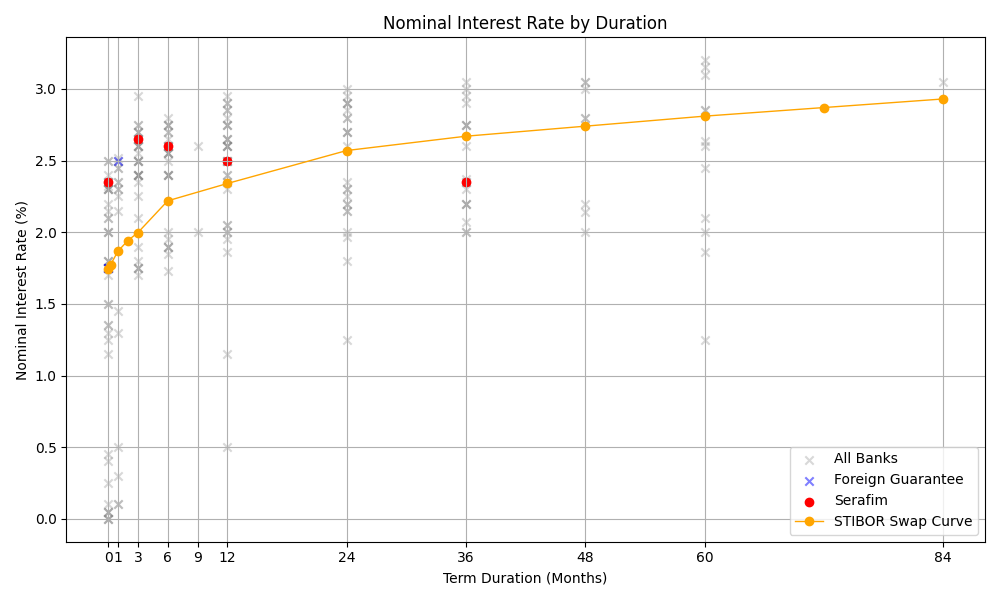
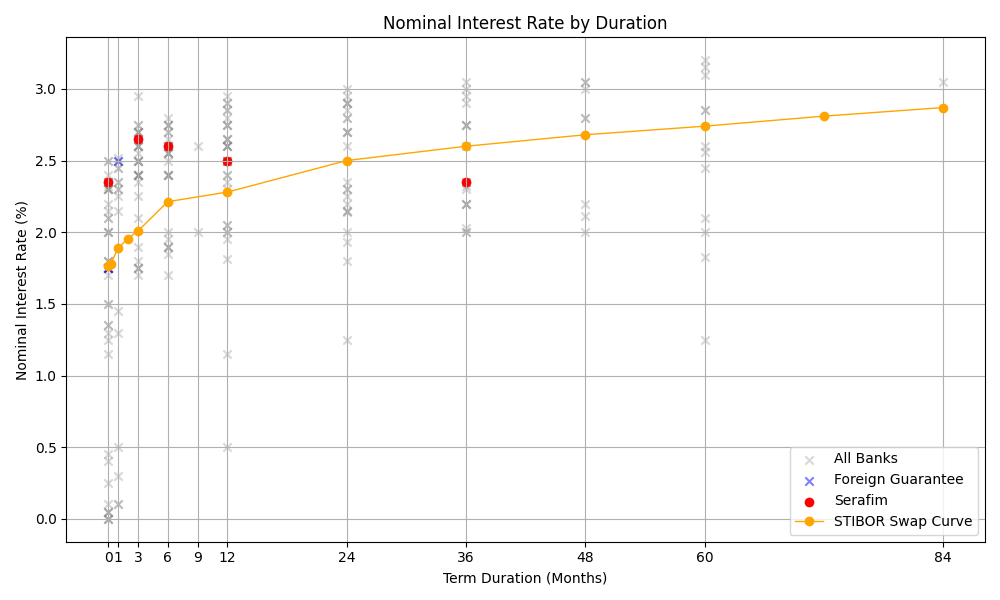
upd

diff --git a/Serafim/index.html b/Serafim/index.html
@@ -81,7 +81,7 @@
 
     <h1>Competitor Overview - Serafim</h1>
     <div style="text-align: right; color: #555; font-size: 0.9em;">
-        Updated: 2026-05-21
+        Updated: 2026-05-22
     </div>
     
     <!-- Tab buttons -->
@@ -337,7 +337,7 @@
       <th>Bankaktiebolaget Nordiska</th>
       <td>2.10</td>
       <td>-</td>
-      <td>2.65</td>
+      <td>2.70 (+0.05)</td>
       <td>2.60</td>
       <td>2.60</td>
       <td>2.60</td>
@@ -394,10 +394,10 @@
       <td>1.80</td>
       <td>-</td>
       <td>2.40</td>
-      <td>2.55 (-0.10)</td>
+      <td>2.55</td>
       <td>-</td>
       <td>2.75</td>
-      <td>2.90 (-0.10)</td>
+      <td>2.90</td>
       <td>-</td>
       <td>-</td>
       <td>-</td>
@@ -660,13 +660,13 @@
       <td>0.05</td>
       <td>2.15</td>
       <td>1.75</td>
-      <td>1.73</td>
+      <td>1.70 (-0.03)</td>
       <td>-</td>
-      <td>1.86 (+0.01)</td>
-      <td>2.20 (+0.01)</td>
-      <td>2.37 (+0.01)</td>
+      <td>1.81 (-0.05)</td>
+      <td>2.14 (-0.06)</td>
+      <td>2.32 (-0.05)</td>
       <td>-</td>
-      <td>2.64 (+0.04)</td>
+      <td>2.56 (-0.08)</td>
       <td>-</td>
     </tr>
     <tr>
@@ -688,7 +688,7 @@
       <td>0.00</td>
       <td>0.50</td>
       <td>1.75</td>
-      <td>1.85 (+0.85)</td>
+      <td>1.85</td>
       <td>-</td>
       <td>1.95</td>
       <td>2.15</td>
@@ -719,10 +719,10 @@
       <td>1.90</td>
       <td>-</td>
       <td>2.05</td>
-      <td>1.97 (+0.02)</td>
-      <td>2.07 (+0.03)</td>
-      <td>2.14 (+0.03)</td>
-      <td>1.86 (+0.01)</td>
+      <td>1.93 (-0.04)</td>
+      <td>2.03 (-0.04)</td>
+      <td>2.11 (-0.03)</td>
+      <td>1.83 (-0.03)</td>
       <td>-</td>
     </tr>
     <tr>
@@ -794,17 +794,17 @@
   </thead>
   <tbody>
     <tr>
-      <th>Northmill Bank</th>
-      <td>1.80</td>
+      <th>Bankaktiebolaget Nordiska</th>
+      <td>2.10</td>
       <td>-</td>
-      <td>2.40</td>
-      <td>2.55 (-0.10)</td>
-      <td>-</td>
+      <td>2.70 (+0.05)</td>
+      <td>2.60</td>
+      <td>2.60</td>
+      <td>2.60</td>
+      <td>2.70</td>
       <td>2.75</td>
-      <td>2.90 (-0.10)</td>
-      <td>-</td>
-      <td>-</td>
-      <td>-</td>
+      <td>2.80</td>
+      <td>2.85</td>
       <td>-</td>
     </tr>
     <tr>
@@ -812,27 +812,13 @@
       <td>0.05</td>
       <td>2.15</td>
       <td>1.75</td>
-      <td>1.73</td>
+      <td>1.70 (-0.03)</td>
       <td>-</td>
-      <td>1.86 (+0.01)</td>
-      <td>2.20 (+0.01)</td>
-      <td>2.37 (+0.01)</td>
+      <td>1.81 (-0.05)</td>
+      <td>2.14 (-0.06)</td>
+      <td>2.32 (-0.05)</td>
       <td>-</td>
-      <td>2.64 (+0.04)</td>
-      <td>-</td>
-    </tr>
-    <tr>
-      <th>Nordea</th>
-      <td>0.00</td>
-      <td>0.50</td>
-      <td>1.75</td>
-      <td>1.85 (+0.85)</td>
-      <td>-</td>
-      <td>1.95</td>
-      <td>2.15</td>
-      <td>-</td>
-      <td>-</td>
-      <td>-</td>
+      <td>2.56 (-0.08)</td>
       <td>-</td>
     </tr>
     <tr>
@@ -843,10 +829,10 @@
       <td>1.90</td>
       <td>-</td>
       <td>2.05</td>
-      <td>1.97 (+0.02)</td>
-      <td>2.07 (+0.03)</td>
-      <td>2.14 (+0.03)</td>
-      <td>1.86 (+0.01)</td>
+      <td>1.93 (-0.04)</td>
+      <td>2.03 (-0.04)</td>
+      <td>2.11 (-0.03)</td>
+      <td>1.83 (-0.03)</td>
       <td>-</td>
     </tr>
   </tbody>
